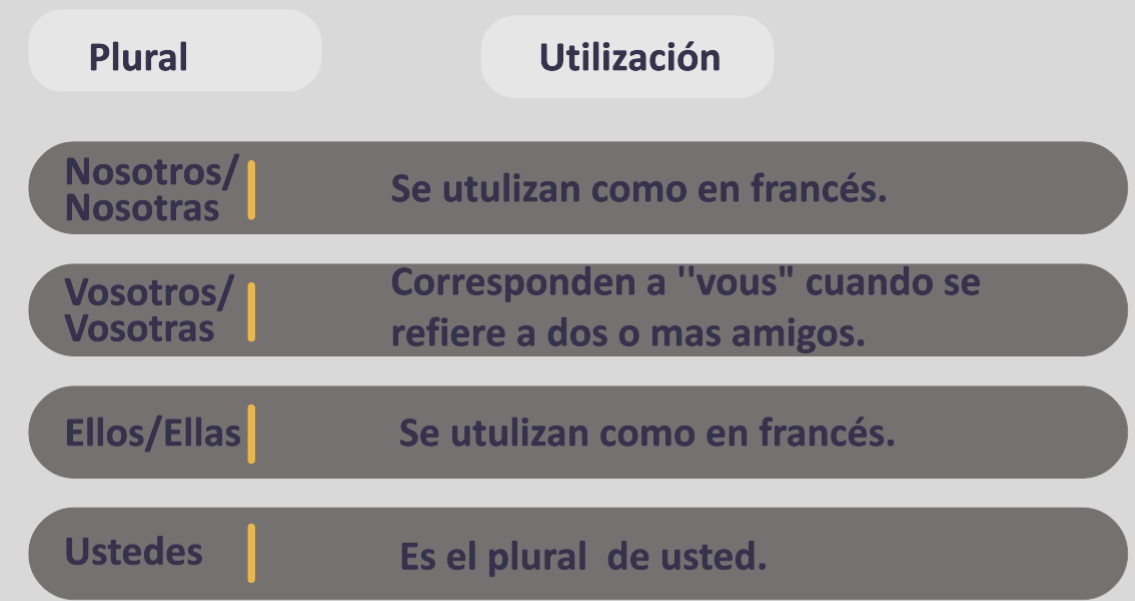
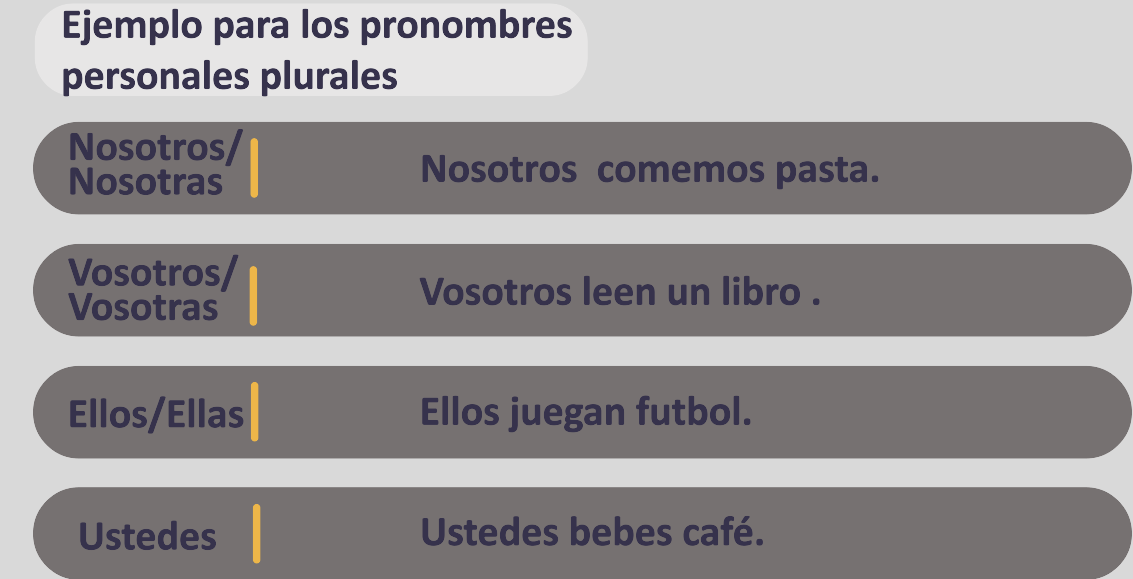
coolstuff
yes

diff --git a/index.html b/index.html
@@ -77,10 +77,10 @@ body {
 
 /* Main column */
 .main {   
-  -ms-flex: 60%; /* IE10 */
-  flex: 60%;
+  -ms-flex: 70%; /* IE10 */
+  flex: 70%;
   background-color: #DBDBDB;
-  padding: 15px;
+  padding: 20px;
 }
 
 /* Fake image, just for this example */
@@ -123,46 +123,38 @@ body {
   <h1 class="text" data-text="Blendify">Blendify</h1>  
   <p>Blendify on top</p>
 </div>
-
  <nav class="navbar">
-        <div class="brand-title">Blendify</div>
-        <a href="#" class="toggle-button">
-          <span class="bar"></span>
-          <span class="bar"></span>
-          <span class="bar"></span>
-        </a>
-        <div class="navbar-links">
-          <ul>
-            <li><a href="home">Home</a></li>
-            <li><a href="espagnol">Espagnol</a></li>
-            <li><a href="coolstuff">Cool stuff</a></li>
-            <li><a href="lotsofjunk">Lots of junk</a></li>
-          </ul>
-        </div>
-      </nav>
-       <style>
-
+  <div class="brand-title">Blendify</div>
+  <a href="#" class="toggle-button">
+  <span class="bar"></span>
+  <span class="bar"></span>
+  <span class="bar"></span>
+  </a>
+  <div class="navbar-links">
+  <ul>
+  <li><a href="home">Home</a></li>
+  <li><a href="espagnol">Espagnol</a></li>
+  <li><a href="coolstuff">Cool stuff</a></li>
+  <li><a href="lotsofjunk">Lots of junk</a></li>
+  </ul>
+  </div>
+  </nav>
+  <style>
 </style>
-
-
 <div class="row">
   <div class="side">
-        <img src="blendify3.png" alt="hi" style="height:350px;">
-    <h3>blendify</h3>
-    <p>blendify</p>
-     <div class="fakeimg" style="height:60px;">Image</div><br>
-    <div class="fakeimg" style="height:60px;">Image</div><br>
+        <img src="blendify4.png" alt="hi" style="height:350px;">
+    <p class="cool" style="font-size:20px">Los ejemplos ---------> </p>
   </div>
   <div class="main">
-    <h2>1) Los pronombres personales:</h2>
-    <img src="blank.png" alt="Los pronombres personales" style="height:10px;">
-    <h1>Los pronombres personales se utilizan para designar personas y se classifican en singluliar y plurales </h1>
-    <img src="singular.png" alt="Los pronombres personales" style="height:380px;">
-    <h2>Los pronombres personales pluriales</h2>
-    <img src="plural.png" alt="Los pronombres personales" style="height:380px;">
-      </div>
-</div>
 
+    <h1 class="cool" style="font-size:40px">Los ejemplos: </h1>
+    <img src="plural.png" alt="Los pronombres personales" style="height:400px;">
+    <h2 class="cool" style="font-size:33px">Los pronombres plurales</h2>
+   <img src="singu.png" alt="Los pronombres personales" style="height:400px;">
+    <p class="cool" style="font-size:20px">Si gracias ,Haga clic a continuación para volver a blendify.net</p>
+    <img src="Blendifylogo.png" alt="Los pronombres personales" style="height:215px;" onclick="window.location.href='https://blendify.net';">
+</div>
 <div class="footer">
   <h2>Blendify industries</h2>
 </div>

diff --git a/styles.css b/styles.css
@@ -8,7 +8,10 @@ body ,html{
     padding: 0;
     
 }
-
+.cool {
+color: #36324c;
+font-weight: bold;
+}
 .navbar {
     display: flex;
     position: relative;
